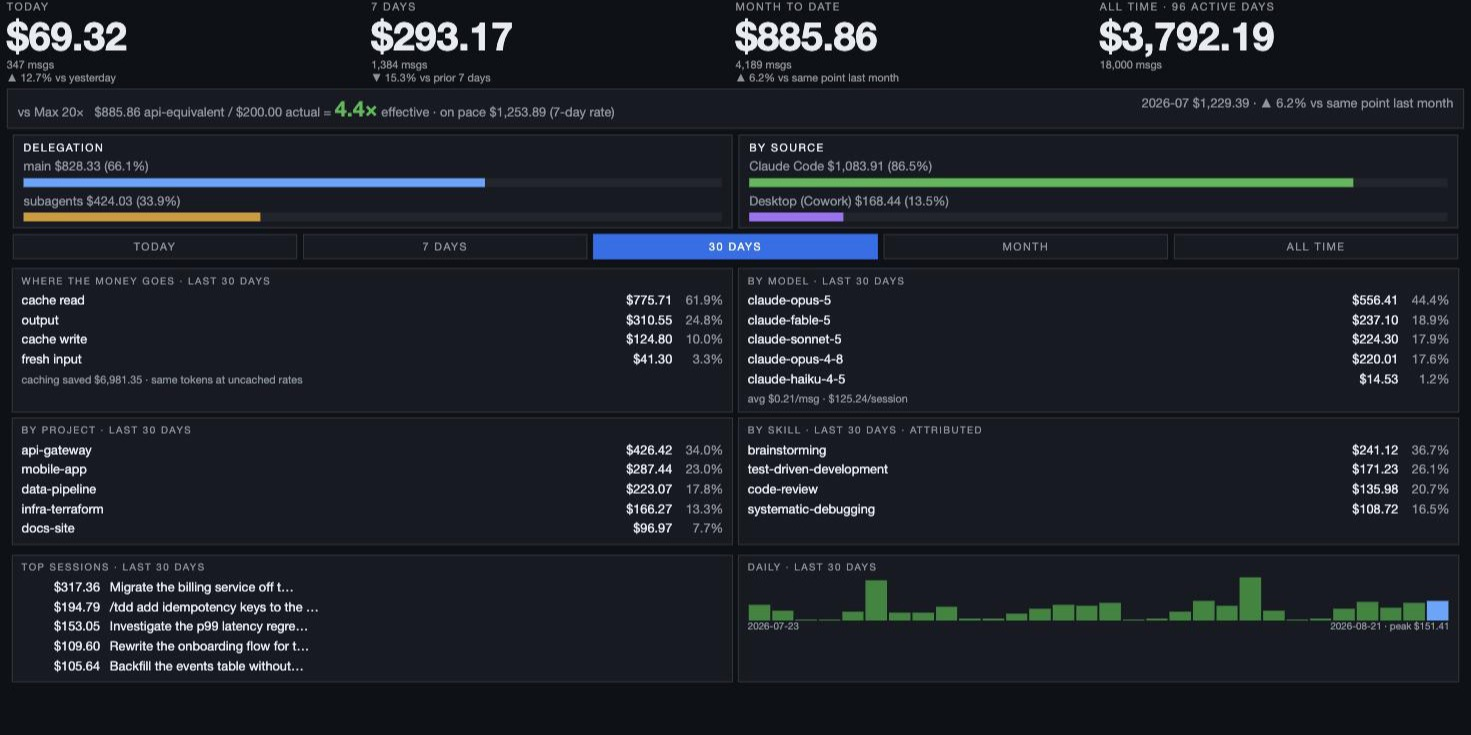
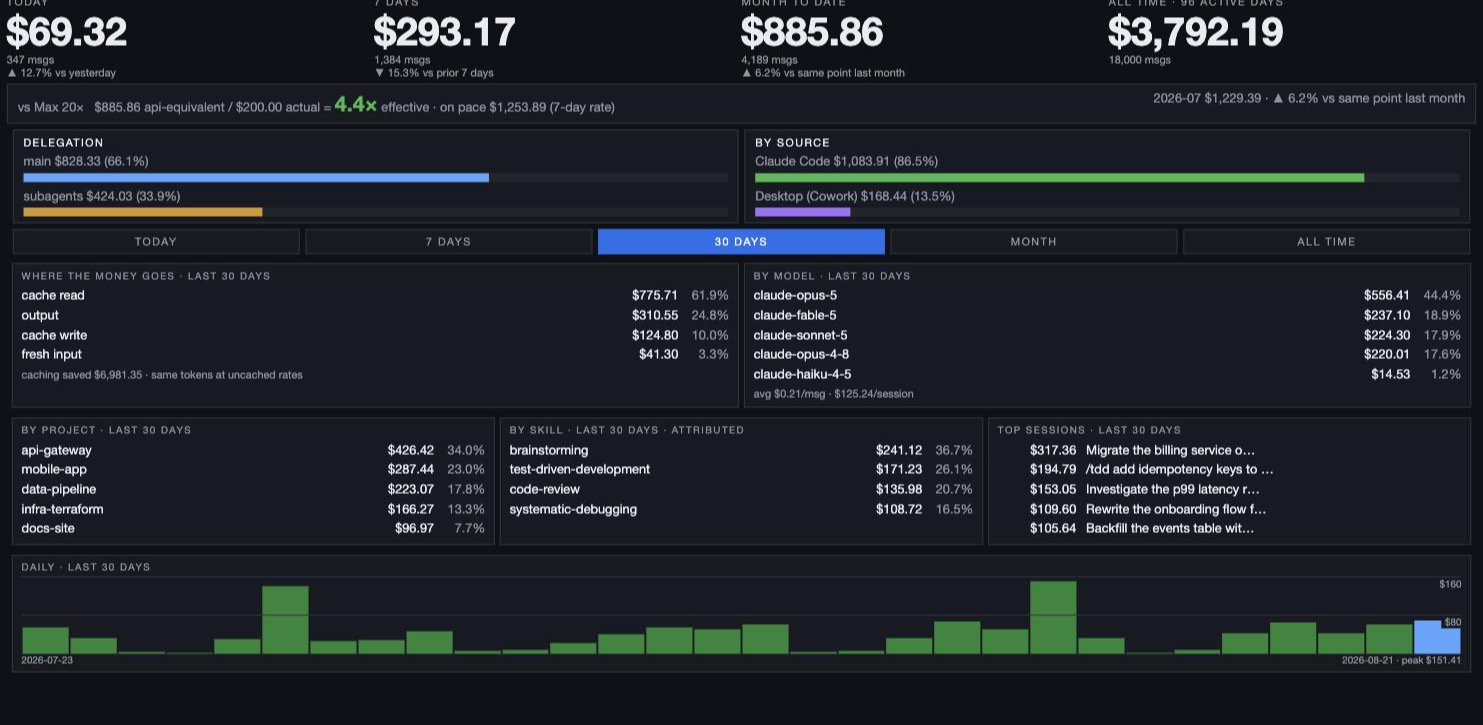
Three breakdowns across, full-width chart with a value axis
BY PROJECT, BY SKILL and TOP SESSIONS now share one row at a third each,
and the daily chart takes the full width beneath them. The page is 742px,
so it still fits a 1024x768 screen whole, with 6px to spare.

The chart gained a value axis: two horizontal lines labelled with round
money, and bars measured against the top line rather than against the peak.
A $86 peak draws $50 and $100 and the tallest bar reaches 86% — the labels
mean what they say, instead of the tallest bar always touching the ceiling.

The step set is finer than the usual 1/2/5. With only two lines a coarse
set strands the peak at half height: $51 would round to a $50/$100 axis and
waste half the chart. Adding 1.5/3/4/6/8 keeps every tested peak between
66% and 100% of the scale. The chart is also 78px tall now, up from 44px,
paid for by the row that merging the three panels freed.

Two layout bugs found by looking at the render rather than the markup:

- table-layout:fixed spreads the widest row's column count across every row
  in the same table, so putting three cells in the second row left the
  money/model row occupying two thirds of the width with a blank third.
  They are separate <table class="grid"> elements now, one per shape.
- The gridlines sat under the bars, because the table comes later in the
  DOM and both are positioned. The tallest bar hid the mid-axis label
  completely. Gridlines now carry a z-index above the bars.
[…]

diff --git a/tests/fixtures/golden_dashboard.html b/tests/fixtures/golden_dashboard.html
@@ -56,6 +56,12 @@ td.barcell { padding-left:8px; }
 .note { font-size:11px; color:#8b949e; margin-top:4px; }
 table.daily { width:100%; table-layout:fixed; border-collapse:collapse; }
 table.daily td { vertical-align:bottom; text-align:center; padding:0 1px; }
+.chartwrap { position:relative; }
+.gridline { position:absolute; left:0; right:0; height:0; z-index:2;
+            border-top:1px solid #30363d; }
+.gridline .glabel { position:absolute; right:0; top:1px; font-size:10px;
+                    color:#8b949e; background:#161b22; padding:0 0 0 4px; }
+table.daily { position:relative; z-index:1; }
 .col { background:#238636; }
 .col.today { background:#58a6ff; }
 .titlebar .live { float:right; letter-spacing:0; margin-right:14px; color:#e6edf3; }
@@ -84,15 +90,15 @@ vs Max 20× &nbsp; $89.01 api-equivalent / $200.00 actual = <span class="mult">0
 <div class="note">avg $2.05/msg &middot;
 $41.15/session</div><div class="note">1 unpriced model(s), counted but not costed: claude-future-9</div></td>
 </tr>
-<tr>
-<td><h2>BY PROJECT &middot; ALL TIME</h2><table class="rows"><tr><td>alpha</td><td class="amt">$600.00</td><td class="pct">60.0%</td><td class="barcell"><div class="bar"><div class="fill" style="width:60.0%;background:#58a6ff"></div></div></td></tr><tr><td>beta</td><td class="amt">$400.00</td><td class="pct">40.0%</td><td class="barcell"><div class="bar"><div class="fill" style="width:40.0%;background:#d29922"></div></div></td></tr></table></td>
-<td><h2>BY SKILL &middot; ALL TIME &middot; ATTRIBUTED</h2><table class="rows"><tr><td>graphify</td><td class="amt">$550.00</td><td class="pct">55.0%</td><td class="barcell"><div class="bar"><div class="fill" style="width:55.0%;background:#58a6ff"></div></div></td></tr><tr><td>code-review</td><td class="amt">$450.00</td><td class="pct">45.0%</td><td class="barcell"><div class="bar"><div class="fill" style="width:45.0%;background:#d29922"></div></div></td></tr></table></td>
-</tr>
 </tbody></table>
 <table class="grid"><tbody>
 <tr>
+<td><h2>BY PROJECT &middot; ALL TIME</h2><table class="rows"><tr><td>alpha</td><td class="amt">$600.00</td><td class="pct">60.0%</td><td class="barcell"><div class="bar"><div class="fill" style="width:60.0%;background:#58a6ff"></div></div></td></tr><tr><td>beta</td><td class="amt">$400.00</td><td class="pct">40.0%</td><td class="barcell"><div class="bar"><div class="fill" style="width:40.0%;background:#d29922"></div></div></td></tr></table></td>
+<td><h2>BY SKILL &middot; ALL TIME &middot; ATTRIBUTED</h2><table class="rows"><tr><td>graphify</td><td class="amt">$550.00</td><td class="pct">55.0%</td><td class="barcell"><div class="bar"><div class="fill" style="width:55.0%;background:#58a6ff"></div></div></td></tr><tr><td>code-review</td><td class="amt">$450.00</td><td class="pct">45.0%</td><td class="barcell"><div class="bar"><div class="fill" style="width:45.0%;background:#d29922"></div></div></td></tr></table></td>
 <td><h2>TOP SESSIONS &middot; ALL TIME</h2><table class="rows"><tr><td class="amt">$220.00</td><td style="padding-left:10px">/graphify refactor billing</td></tr><tr><td class="amt">$80.00</td><td style="padding-left:10px">(untitled session)</td></tr></table></td>
-<td><h2>DAILY &middot; LAST 3 DAYS</h2><table class="daily" style="height:44px"><tr><td><div class="col" style="height:17px"></div></td><td><div class="col" style="height:44px"></div></td><td><div class="col" style="height:21px"></div></td></tr></table><div class="dscale">2026-07-28<span style="float:right">2026-07-30 &middot; peak $25.50</span></div></td>
 </tr>
+</tbody></table>
+<table class="grid"><tbody>
+<tr><td><h2>DAILY &middot; LAST 3 DAYS</h2><div class="chartwrap" style="height:78px"><div class="gridline" style="bottom:39px"><span class="glabel">$15</span></div><div class="gridline" style="bottom:78px"><span class="glabel">$30</span></div><table class="daily" style="height:78px"><tr><td><div class="col" style="height:26px"></div></td><td><div class="col" style="height:66px"></div></td><td><div class="col" style="height:32px"></div></td></tr></table></div><div class="dscale">2026-07-28<span style="float:right">2026-07-30 &middot; peak $25.50</span></div></td></tr>
 </tbody></table>
 </body></html>

diff --git a/dashboard/render_html.py b/dashboard/render_html.py
@@ -13,9 +13,9 @@ from .models import Bar, DashboardData
 
 BAR_COLOURS = ("#58a6ff", "#d29922", "#3fb950", "#8b949e", "#a371f7")
 SOURCE_COLOURS = ("#3fb950", "#a371f7", "#58a6ff", "#d29922", "#8b949e")
-DAILY_CHART_HEIGHT_PX = 44
-#: Half-width column since TOP SESSIONS sits beside the daily chart.
-SESSION_TITLE_MAX = 34
+DAILY_CHART_HEIGHT_PX = 78
+#: One of three columns on its row.
+SESSION_TITLE_MAX = 30
 
 CSS = """
 * { margin:0; padding:0; box-sizing:border-box; }
@@ -68,6 +68,12 @@ td.barcell { padding-left:8px; }
 .note { font-size:11px; color:#8b949e; margin-top:4px; }
 table.daily { width:100%; table-layout:fixed; border-collapse:collapse; }
 table.daily td { vertical-align:bottom; text-align:center; padding:0 1px; }
+.chartwrap { position:relative; }
+.gridline { position:absolute; left:0; right:0; height:0; z-index:2;
+            border-top:1px solid #30363d; }
+.gridline .glabel { position:absolute; right:0; top:1px; font-size:10px;
+                    color:#8b949e; background:#161b22; padding:0 0 0 4px; }
+table.daily { position:relative; z-index:1; }
 .col { background:#238636; }
 .col.today { background:#58a6ff; }
 .titlebar .live { float:right; letter-spacing:0; margin-right:14px; color:#e6edf3; }
@@ -123,13 +129,58 @@ def _session_rows(bars: list[Bar]) -> str:
     return "".join(out)
 
 
+#: Multipliers a value axis is allowed to land on, so labels read as round
+#: money. Finer than the usual 1/2/5 set: with only two lines, a coarse set
+#: leaves the tallest bar at half height and wastes the chart.
+_AXIS_STEPS = (1, 1.5, 2, 2.5, 3, 4, 5, 6, 8, 10)
+
+
+def _axis_step(peak: float) -> float:
+    """Smallest round step whose double covers the peak.
+
+    The chart shows two lines, so the top of the scale is 2 x step and the
+    step has to be at least half the peak. A $86 peak gives $50, so the axis
+    reads $50 / $100 and the tallest bar reaches 86% of the chart.
+    """
+    import math
+
+    target = peak / 2
+    magnitude = 10 ** math.floor(math.log10(target)) if target > 0 else 1
+    for multiplier in _AXIS_STEPS:
+        candidate = multiplier * magnitude
+        if target <= candidate:
+            return candidate
+    return 10 * magnitude
+
+
+def _axis_label(value: float) -> str:
+    """Axis labels drop the cents unless the whole scale lives below a
+    dollar — "$50" reads as a scale, "$50.00" reads as a measurement."""
+    if value >= 10:
+        return f"${value:,.0f}"
+    if value >= 1:
+        return f"${value:,.1f}".rstrip("0").rstrip(".")
+    return f"${value:,.2f}"
+
+
 def _daily(data: DashboardData) -> str:
     if not data.daily:
         return '<div class="note">no daily history yet</div>'
     peak = max(point.cost for point in data.daily) or 1.0
+    # Bars are measured against the top gridline, not against the peak, so
+    # the axis labels mean what they say.
+    step = _axis_step(peak)
+    top = step * 2
+
+    lines = "".join(
+        f'<div class="gridline" style="bottom:{round(fraction * DAILY_CHART_HEIGHT_PX)}px">'
+        f'<span class="glabel">{_axis_label(value)}</span></div>'
+        for value, fraction in ((step, 0.5), (top, 1.0))
+    )
+
     cells = []
     for point in data.daily:
-        height = max(1, min(DAILY_CHART_HEIGHT_PX, round(point.cost / peak * DAILY_CHART_HEIGHT_PX)))
+        height = max(1, min(DAILY_CHART_HEIGHT_PX, round(point.cost / top * DAILY_CHART_HEIGHT_PX)))
         # One bar out of thirty is the only one still moving; without a
         # colour it takes a squint to find.
         today = " today" if point.day and point.day == data.today_day else ""
@@ -137,8 +188,9 @@ def _daily(data: DashboardData) -> str:
             f'<td><div class="col{today}" style="height:{height}px"></div></td>'
         )
     return (
+        f'<div class="chartwrap" style="height:{DAILY_CHART_HEIGHT_PX}px">{lines}'
         f'<table class="daily" style="height:{DAILY_CHART_HEIGHT_PX}px">'
-        f"<tr>{''.join(cells)}</tr></table>"
+        f"<tr>{''.join(cells)}</tr></table></div>"
         f'<div class="dscale">{escape(data.daily[0].day)}'
         f'<span style="float:right">{escape(data.daily[-1].day)}'
         f" &middot; peak {_money(peak)}</span></div>"
@@ -381,16 +433,16 @@ def render(
 <div class="note">avg {_money(data.avg_cost_per_message)}/msg &middot;
 {_money(data.avg_cost_per_session)}/session</div>{unpriced}</td>
 </tr>
-<tr>
-<td><h2>BY PROJECT &middot; {escape(data.range_label)}</h2>{_rows(data.by_project)}</td>
-<td><h2>BY SKILL &middot; {escape(data.range_label)} &middot; ATTRIBUTED</h2>{_rows(data.by_skill)}</td>
-</tr>
 </tbody></table>
 <table class="grid"><tbody>
 <tr>
+<td><h2>BY PROJECT &middot; {escape(data.range_label)}</h2>{_rows(data.by_project)}</td>
+<td><h2>BY SKILL &middot; {escape(data.range_label)} &middot; ATTRIBUTED</h2>{_rows(data.by_skill)}</td>
 <td><h2>TOP SESSIONS &middot; {escape(data.range_label)}</h2>{_session_rows(data.top_sessions)}</td>
-<td><h2>DAILY &middot; LAST {len(data.daily)} DAYS</h2>{_daily(data)}</td>
 </tr>
+</tbody></table>
+<table class="grid"><tbody>
+<tr><td><h2>DAILY &middot; LAST {len(data.daily)} DAYS</h2>{_daily(data)}</td></tr>
 </tbody></table>
 </body></html>
 """

diff --git a/tests/test_render_html.py b/tests/test_render_html.py
@@ -232,11 +232,13 @@ def test_max_band_states_the_month_change_as_a_same_point_comparison():
 
 def test_session_titles_are_html_escaped():
     """Titles are arbitrary user text and routinely contain < and &."""
-    data = aggregate.build([rec("m1", "2026-07-30")], {"sess-a": "<script>alert(1)</script> & more"}, now=NOW)
+    # Kept under SESSION_TITLE_MAX so truncation cannot remove the very
+    # characters this test exists to check.
+    data = aggregate.build([rec("m1", "2026-07-30")], {"sess-a": "<b>a & b</b>"}, now=NOW)
     out = render_html.render(data)
-    assert "<script>alert(1)</script>" not in out
-    assert "&lt;script&gt;" in out
-    assert "&amp; more" in out
+    assert "<b>a & b</b>" not in out
+    assert "&lt;b&gt;" in out
+    assert "&amp;" in out
 
 
 def test_project_and_model_labels_are_escaped():
@@ -521,18 +523,6 @@ def test_plan_label_is_html_escaped():
     assert "&lt;script&gt;" in out
 
 
-def test_top_sessions_and_daily_share_one_grid_row():
-    """They were stacked, which cost 240px of a 748px fold and pushed the
-    daily chart off the iPad's first screen. Side by side the whole page
-    fits. Pinned because re-stacking them would silently undo that."""
-    data = aggregate.build([rec("m1", "2026-07-30")], {}, now=NOW)
-    out = render_html.render(data)
-    # Counting <tr> is no good here: the session list is itself a table.
-    # Assert the daily cell opens immediately after the sessions cell closes,
-    # which is only true when they share a row.
-    assert "</td>\n<td><h2>DAILY" in out
-
-
 def test_session_titles_are_truncated_for_the_narrower_column():
     """Half the width now, so the cap came down with it."""
     long_title = "x" * 200
@@ -540,3 +530,59 @@ def test_session_titles_are_truncated_for_the_narrower_column():
     out = render_html.render(data)
     assert "x" * (render_html.SESSION_TITLE_MAX + 1) not in out
     assert "…" in out
+
+
+# --- the daily chart's value axis ---------------------------------------
+
+def test_the_axis_lands_on_round_money_above_the_peak():
+    """The example that defined the feature: a $86 peak should read $50 /
+    $100, not $43 / $86. Two lines, so the top of the scale is twice the
+    step and the step must cover half the peak."""
+    assert render_html._axis_step(86) == 50
+    assert render_html._axis_step(8.6) == 5
+    assert render_html._axis_step(860) == 500
+
+
+def test_the_axis_does_not_waste_the_chart():
+    """A coarse 1/2/5 step set leaves the tallest bar at half height for
+    unlucky peaks. Every peak here must fill at least two thirds."""
+    for peak in (1, 3, 8.6, 20, 51, 86, 150, 337, 1234):
+        top = render_html._axis_step(peak) * 2
+        assert peak / top >= 0.66, f"{peak} only fills {peak / top:.0%}"
+        assert top >= peak, f"{peak} exceeds its own axis"
+
+
+def test_bars_are_measured_against_the_axis_not_the_peak():
+    """If bars scaled to the peak, the tallest would always touch the top
+    and the axis labels would be decoration rather than a scale."""
+    days = [DayCost(day=f"2026-07-{d:02d}", cost=c) for d, c in ((28, 10.0), (29, 86.0))]
+    out = render_html.render(_bare_data(daily=days))
+    heights = [int(m) for m in re.findall(r'class="col[^"]*"[^>]*height:(\d+)px', out)]
+    assert max(heights) < render_html.DAILY_CHART_HEIGHT_PX, "tallest bar hit the ceiling"
+
+
+def test_axis_labels_drop_the_cents():
+    assert render_html._axis_label(50) == "$50"
+    assert render_html._axis_label(1234) == "$1,234"
+    assert render_html._axis_label(0.5) == "$0.50"
+
+
+def test_the_three_breakdowns_share_a_row_and_the_chart_spans_the_width():
+    data = aggregate.build([rec("m1", "2026-07-30")], {}, now=NOW)
+    out = render_html.render(data)
+    assert "</td>\n<td><h2>BY SKILL" in out
+    assert "</td>\n<td><h2>TOP SESSIONS" in out
+    # The chart is alone in the last grid table, so it spans the full width.
+    last = out.rsplit('<table class="grid">', 1)[1]
+    assert last.count("<h2>") == 1
+    assert "DAILY" in last
+
+
+def test_the_chart_survives_the_ios5_lint():
+    """position:absolute is fine on iOS 5.1.1; flexbox and grid are not."""
+    days = [DayCost(day="2026-07-30", cost=5.0)]
+    out = render_html.render(_bare_data(daily=days))
+    assert "display:flex" not in out.replace(" ", "")
+    assert "display:grid" not in out.replace(" ", "")
+    assert "var(--" not in out
+    assert "<script" not in out.lower()

diff --git a/README.md b/README.md
@@ -41,7 +41,10 @@ layout before you have any history of your own.*
   input, and what caching saved you.
 - **By model, project, skill and session** — which models, repos, skills and
   individual pieces of work cost the most.
-- **A daily chart** — the last 30 active days, with today picked out.
+- **A daily chart** — the last 30 active days across the full width, with
+  today picked out and a value axis that snaps to round money: a $86 peak
+  draws lines at $50 and $100, so the bars are readable as amounts rather
+  than only as relative heights.
 
 ## Requirements
 
@@ -105,10 +108,10 @@ properties, no `rem` units and no usable ES5 — so the layout is tables and
 that as a compatibility lint, so it cannot quietly regress. If it renders
 there, it renders anywhere.
 
-The page is laid out for a width of **1024** and is **747px tall**, so all of
-it — including the daily chart — fits a 1024×768 screen without scrolling.
-Measured in a 1024-wide frame, not estimated. It was 875px until the top
-sessions and daily panels were put side by side rather than stacked.
+The page is laid out for a width of **1024** and is **742px tall**, so all of
+it fits a 1024×768 screen without scrolling. Measured in a 1024-wide frame,
+not estimated — it was 875px before the panels were rearranged into full
+rows.
 
 ### 2. A Raspberry Pi driving a small screen
 
